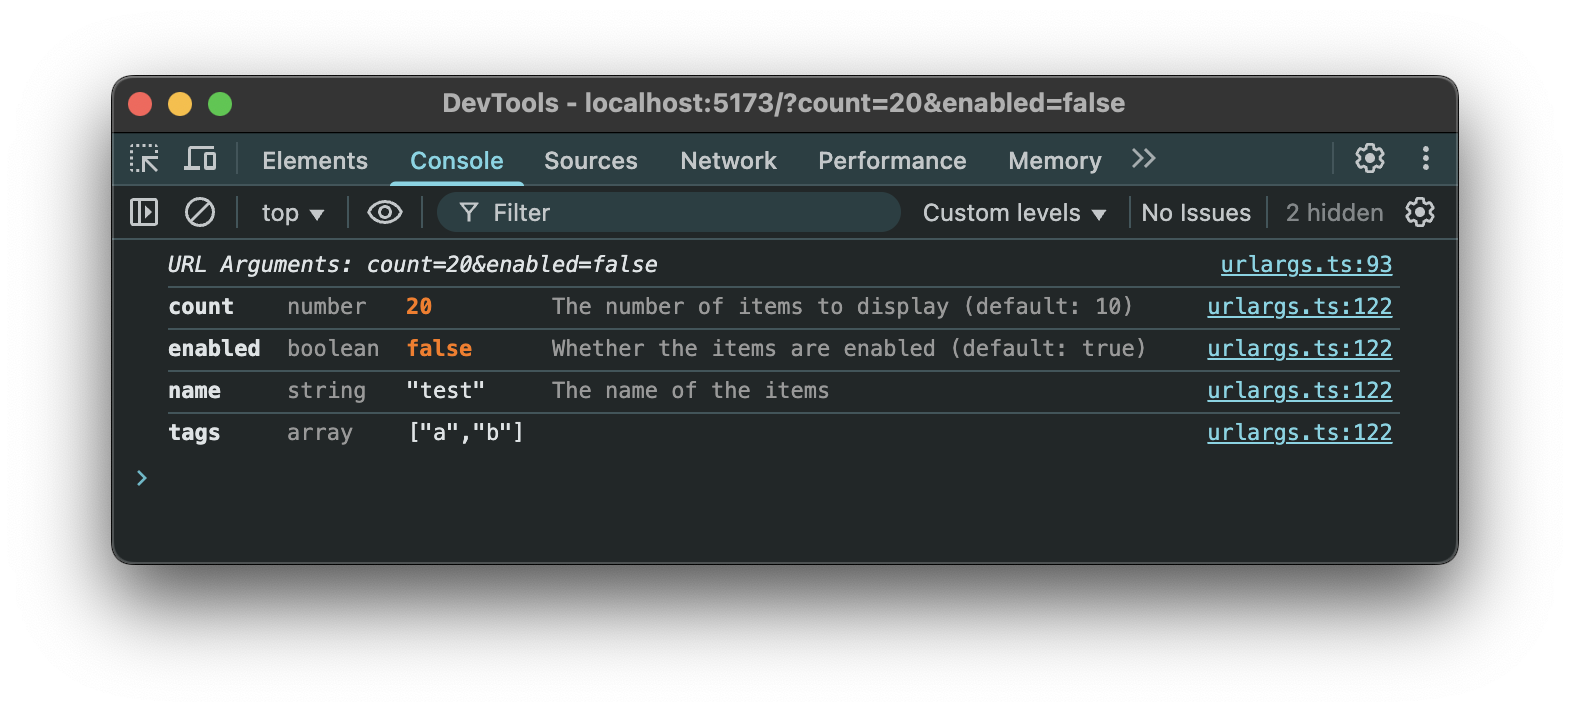
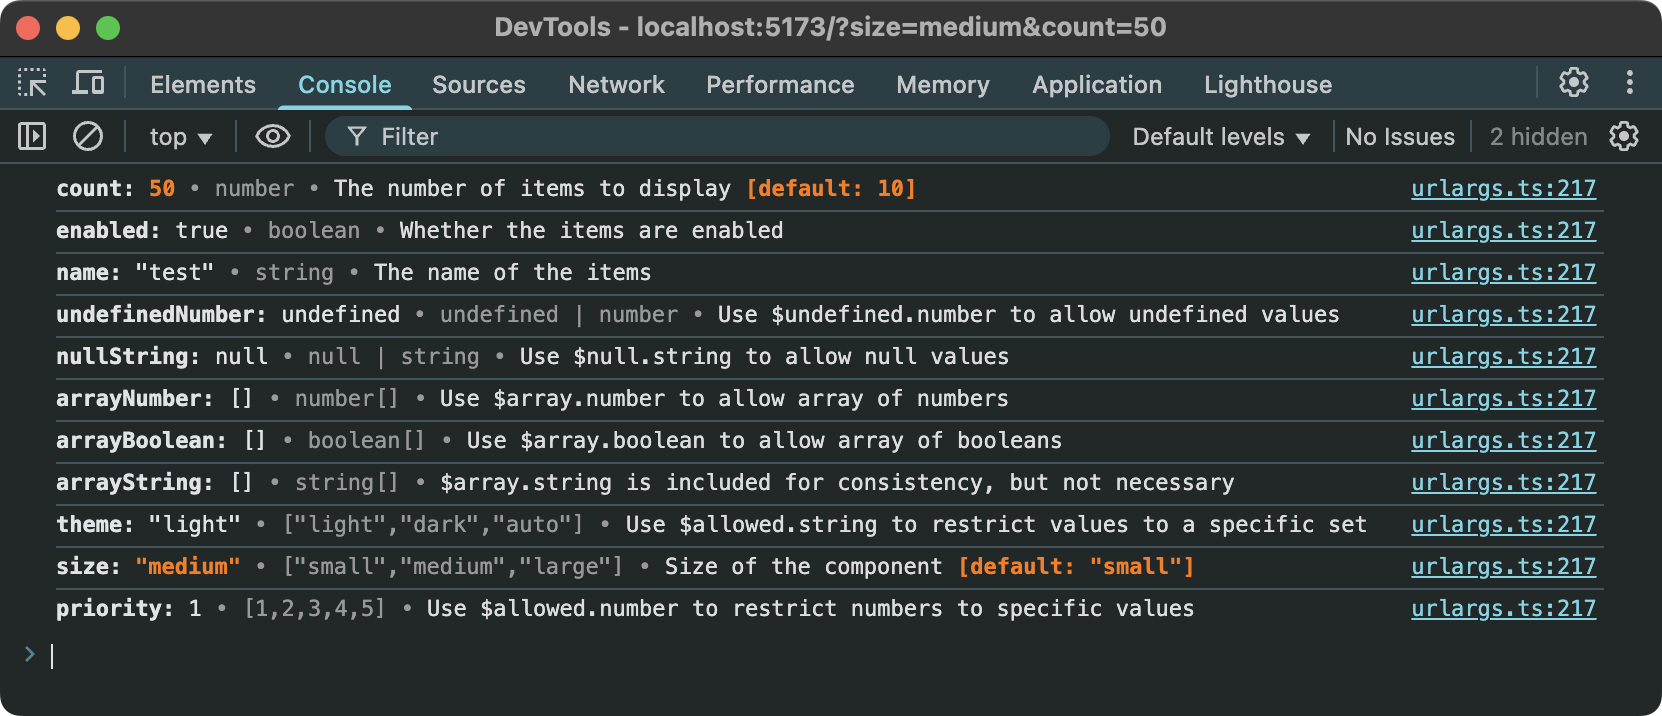
massage describe formatting

diff --git a/src/urlargs.ts b/src/urlargs.ts
@@ -195,21 +195,26 @@ export class UrlArgs<T extends Record<string, DefaultValue>> {
 			const valueStr = this.truncate( this.stringify( value ) );
 			const valueStyle = !isDefaultValue ? 'font-weight: bold; color: #f70' : '';
 
-			let secondLine = type + ' ·';
-			if ( !isDefaultValue ) {
-				const defaultStr = this.stringify( arg );
-				secondLine += ` (default: ${defaultStr})`;
-			}
+			let secondLine = '';
 			if ( description.trim() ) {
-				secondLine += ` ${description.trim()}`;
+				secondLine += description.trim();
 			}
 
-			console.log( `%c${key}: %c${valueStr}`, 'font-weight: bold', valueStyle );
-			console.log(
-				` %c└─ ${type}%c${secondLine.substring( type.length )}`,
-				'font-style: italic; color: #999',
-				'color: #999'
-			);
+			const toPrint = [
+				`%c${key}: %c${valueStr}%c • ${type} • %c${secondLine}`,
+				'font-weight: bold',
+				valueStyle,
+				'color: #999',
+				'color: #ddd',
+			];
+
+			if ( !isDefaultValue ) {
+				const defaultStr = this.stringify( arg );
+				toPrint[ 0 ] += ` %c[default: ${defaultStr}]`;
+				toPrint.push( 'font-weight: bold; color: #f70' );
+			}
+
+			console.log( ...toPrint );
 		}
 	}
 

diff --git a/urlargs.test.ts b/urlargs.test.ts
@@ -349,10 +349,10 @@ describe( 'UrlArgs', () => {
 		consoleLogSpy.mockImplementation( ( ...args ) => {
 			logs.push( args.join( ' ' ) );
 		} );
-		const allowed = [ 'a', 'b', 'c' ];
+		const allowed = [ 'ONE', 'TWO', 'THREE' ];
 		new UrlArgs( { foo: $allowed.string( ...allowed ) } ).describe( { foo: 'The foo parameter' } );
 		expect( consoleLogSpy ).toHaveBeenCalled();
-		expect( logs.some( log => log.includes( allowed.join( ', ' ) ) ) ).toBe( true );
+		expect( logs.some( log => allowed.every( a => log.includes( a ) ) ) ).toBe( true );
 	} );
 
 } );

diff --git a/src/special.ts b/src/special.ts
@@ -105,7 +105,7 @@ const createAllowed = <T extends string | number | boolean>(
 	parse: ( value: string ) => T,
 	baseValidate: ( value: string ) => boolean,
 ) => <const A extends readonly T[]>( ...allowed: A ) => {
-	const typeLabel = `${baseTypeLabel} (${allowed.join( ', ' )})`;
+	const typeLabel = `${JSON.stringify( allowed )}`;
 	const validate = ( value: string ) => {
 		const parsed = parse( value );
 		return baseValidate( value ) && allowed.includes( parsed );